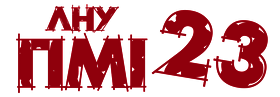
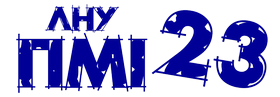
Revert "Improved styles"
This reverts commit 59c4bd1cd7921a3891c3a0bbc35705b5684b43c7.

diff --git a/styles/style.css b/styles/style.css
@@ -1,19 +1,19 @@
 body {
 	position: relative;
 	background-color: $backgroundColor;
-	font-family: 'Segoe Print';
+	font-family: 'Segoe UI Light';
 	width: 900px;
 	margin: auto;
 	margin-bottom: 5px;
 	border-right: 1px solid #aaa;
-	border-left: 1px solid #484848;
-	color: #000000;
+	border-left: 1px solid #00f;
+	color: $mainTextColor;
 }
 nav {
 	position: fixed;
 	top: 0px;
 	width: 600px;
-	background-color: #585858;
+	background-color: #025;
 	padding-left: 15px;
 	transition: width .5s;
 	height: 50px;
@@ -22,19 +22,19 @@ nav {
 }
 nav .menu {
 	display: inline-block;
-	color: #e6e6e6;
+	color: #fff;
 	text-decoration: none;
 	font-size: 16pt;
 	padding: 10px;
 }
 nav .menu:hover {
-	background-color: #484848;
+	background-color: #237;
 	color: #ffd;
 	border-bottom: solid 3px #55f;
 	padding-bottom: 7px;
 }
 nav .sel {
-	background-color: #282828;
+	background-color: #046;
 	border-bottom: solid 3px #ff0;
 	padding-bottom: 7px;
 }
@@ -62,7 +62,7 @@ aside {
 	padding: 10px;
 	margin-bottom: 0px;
 	float: right;
-	background-color: #eeeeee;/*ЛНУ 23 фото бекграунд колір
+	background-color: $backgroundColor;/*
 	border-left: 1px dashed #00f;*/
 	z-index: 3;
 }
@@ -72,21 +72,21 @@ footer {
 	padding: 10px;
 	text-align: center;
 	bottom: 0px;
-	color: #dfdfdf;
-	background-color: #484848;
+	color: #fff;
+	background-color: #025;
 	z-index: 3;
 }
 .main {
-	background-color: #fbcbff;
+	background-color: $mainColor;
 	padding: 5px;
-	padding-top: 60px;
+	padding-top: 55px;
 	min-height: 560px;
 	width: 588px;
-	border-right: 1px dashed #484848;
+	border-right: 1px dashed #00f;
 }
 .message {
 	position: relative;
-	background-color: #ffffff;
+	background-color: $mainElementColor;
 	margin: 5px;
 	padding: 5px;
 }

diff --git a/template.php b/template.php
@@ -17,10 +17,9 @@
 	}
 	
 	
-	$db = new mysqli('localhost', 'root', '', 'ami'); 
+	$db = new mysqli('localhost', 'ami_user', 'Pa$$word', 'ami'); 
 	if($db->connect_errno > 0)
 		die('Unable to connect to database [' . $db->connect_error . ']');
-	$db->set_charset('UTF8');
 	
 	/*** CURRENT USER INFO ***/
 	if (isset($_COOKIE["user"]))
